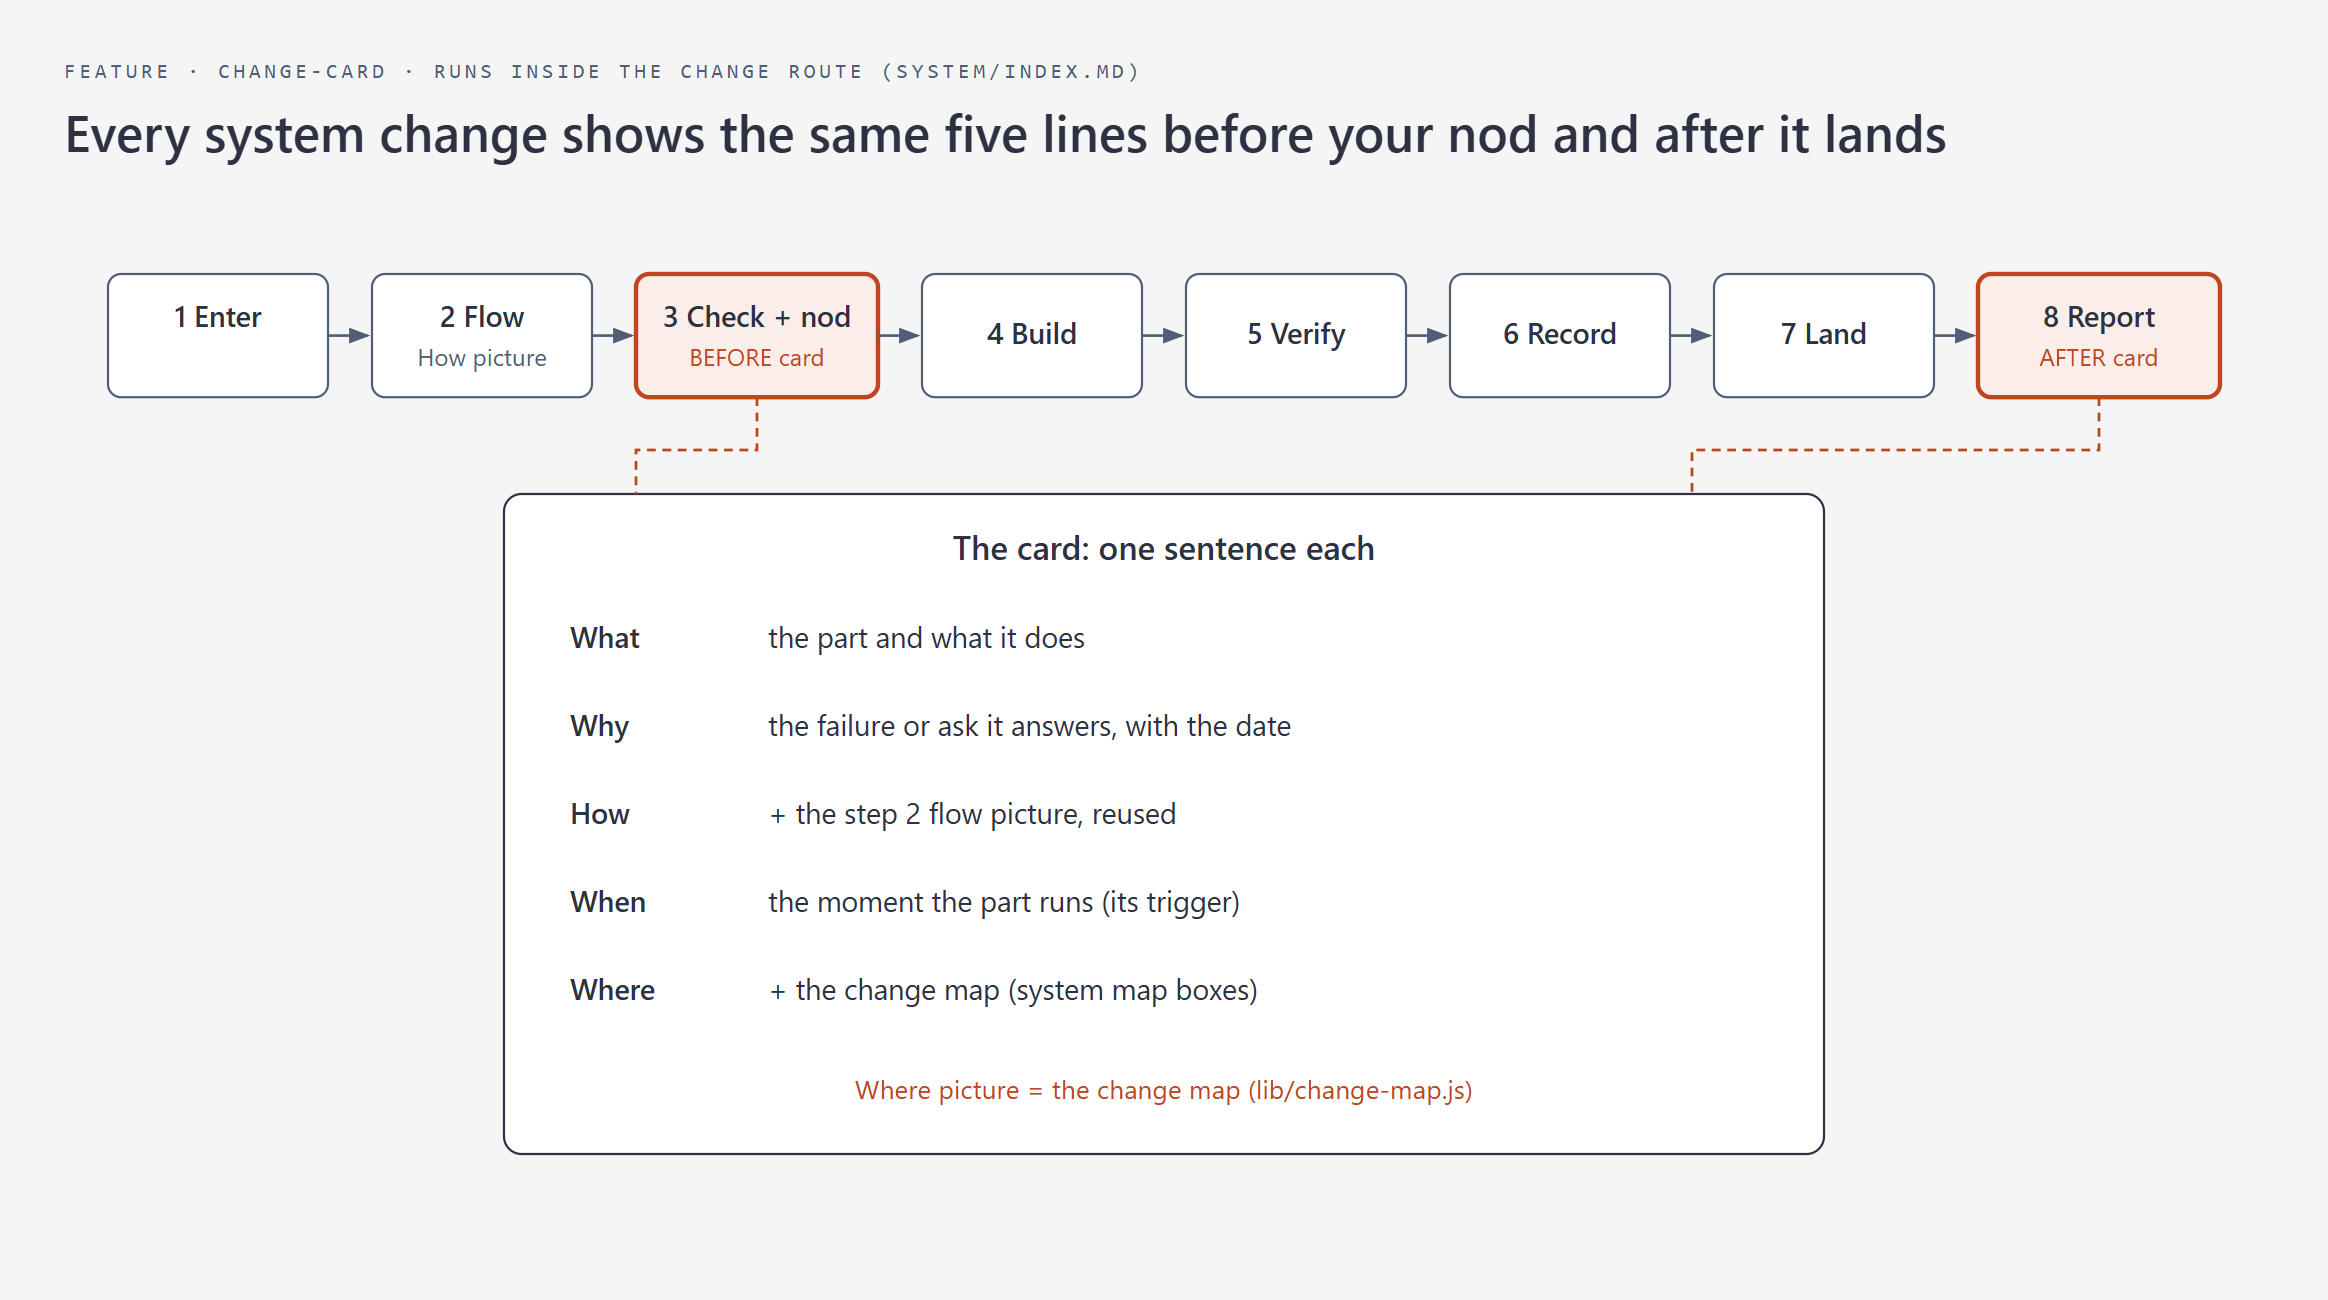
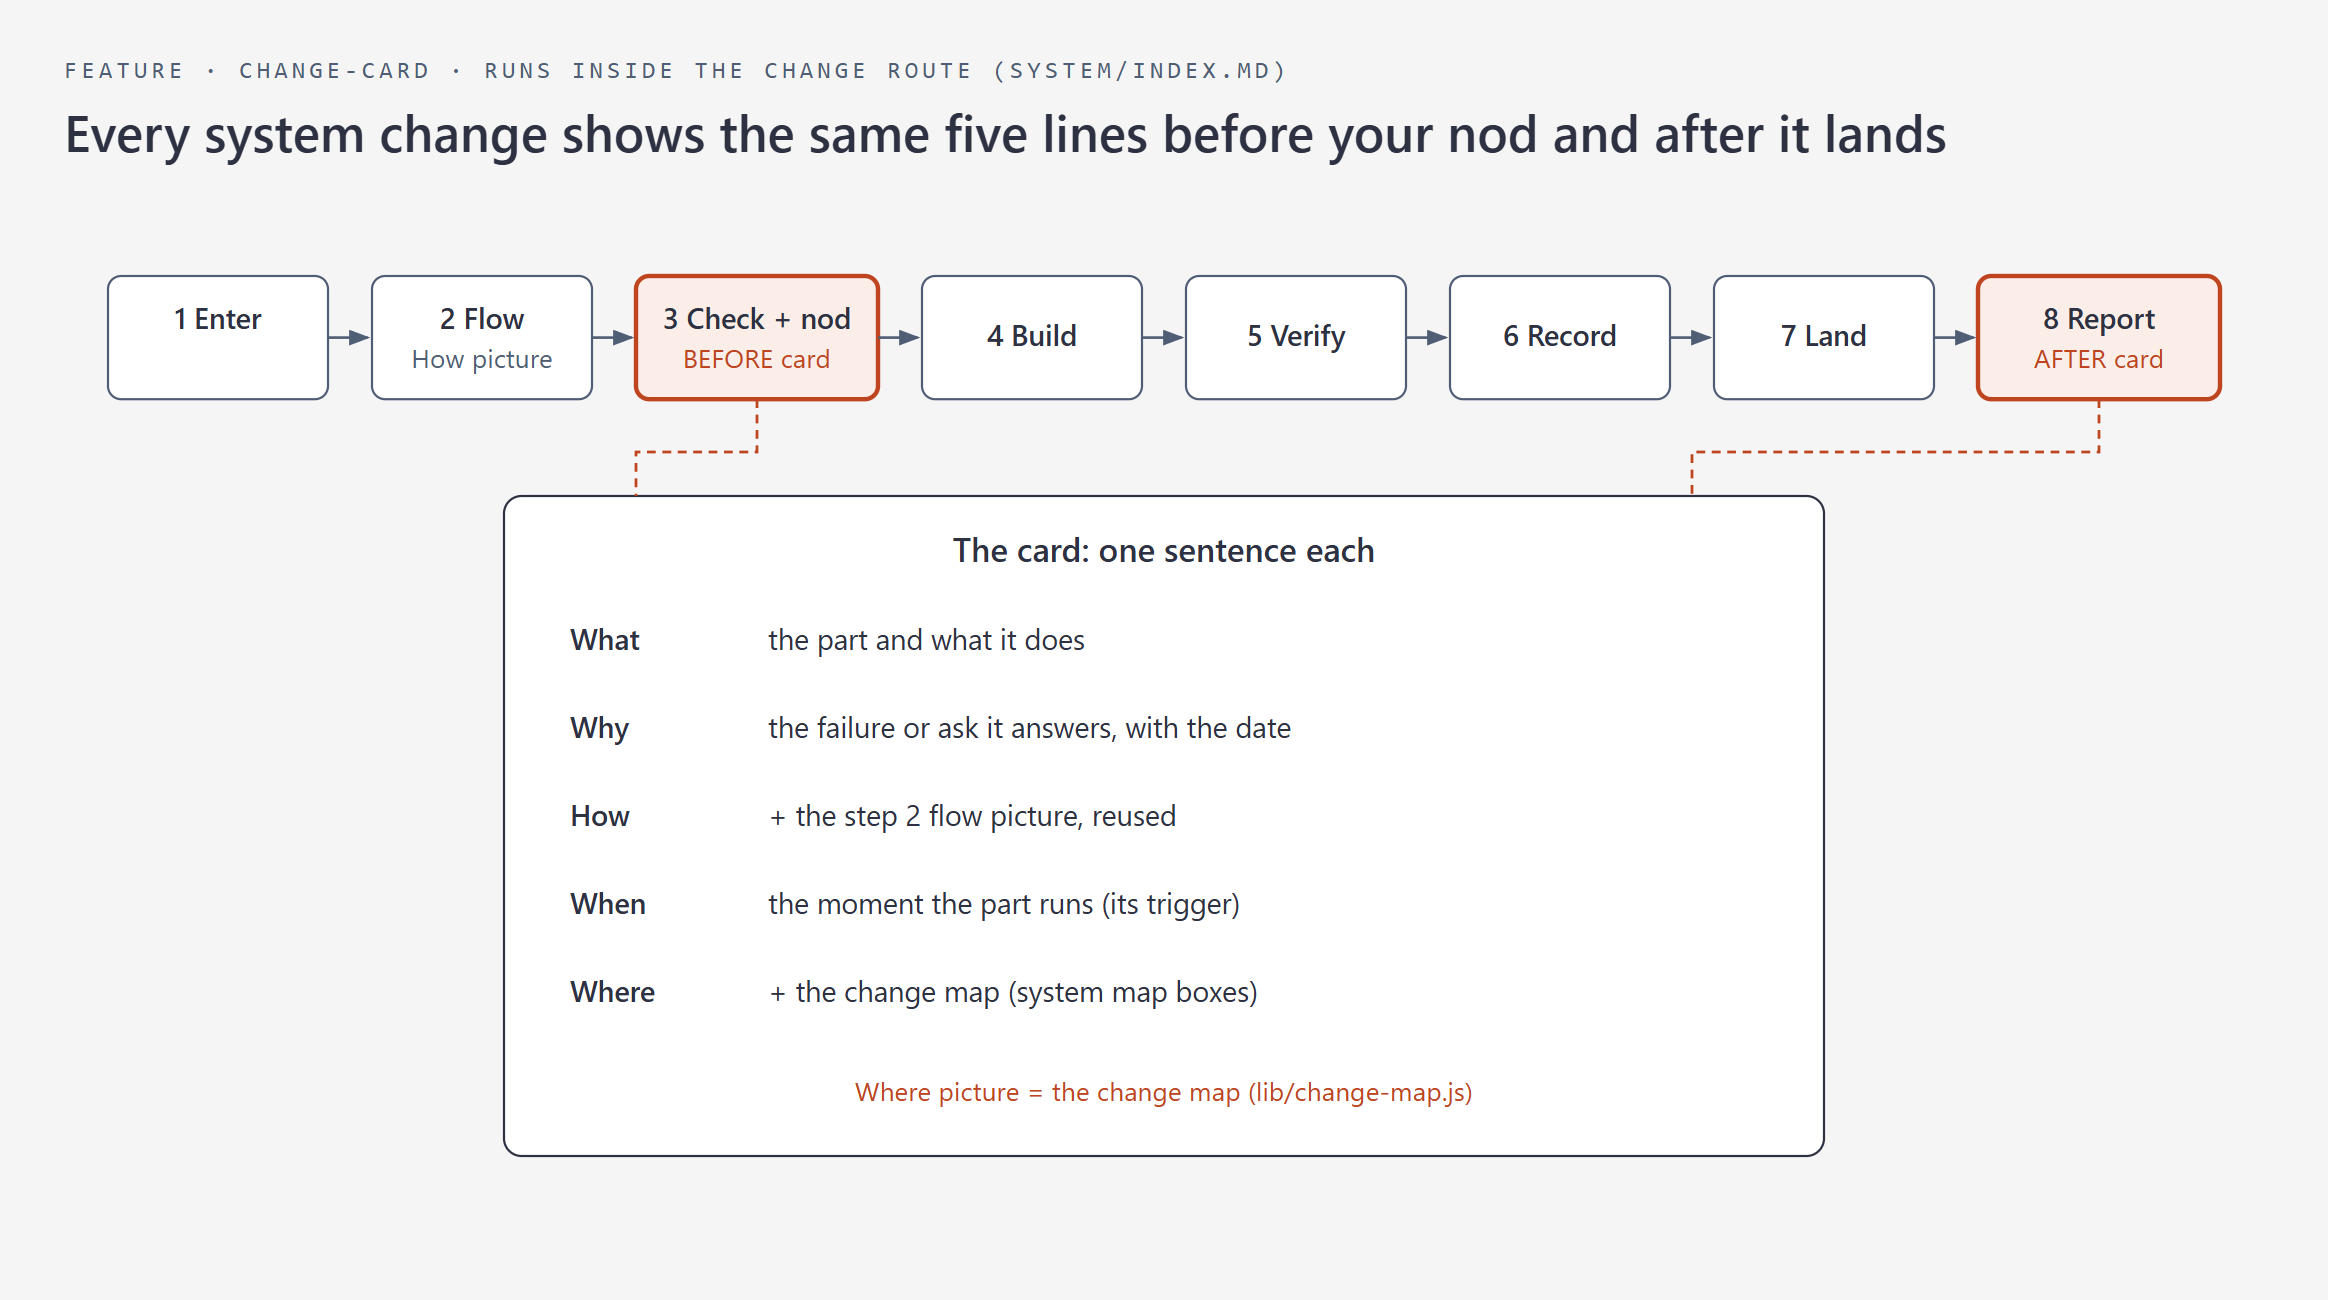
change-card: 5 adversarial fixtures (eval 17/17), diagram labels raised to 12 px

diff --git a/.claude/skills/change-card/diagram.html b/.claude/skills/change-card/diagram.html
@@ -9,7 +9,7 @@
     :root { --color-paper: #f5f5f5; --color-ink: #2d3142; --color-muted: #4f5d75; --color-accent: #bf4520; --font-sans: 'Segoe UI', Arial, sans-serif; --font-mono: Consolas, monospace; }
     body { font-family: var(--font-sans); background: var(--color-paper); color: var(--color-ink); min-height: 100vh; display: flex; align-items: center; justify-content: center; padding: 3rem 2rem; }
     .frame { max-width: 1100px; width: 100%; padding: 28px 32px; box-sizing: content-box; }
-    .eyebrow { font-family: var(--font-mono); font-size: 0.66rem; letter-spacing: 0.18em; text-transform: uppercase; color: var(--color-muted); margin-bottom: 0.5rem; }
+    .eyebrow { font-family: var(--font-mono); font-size: 0.75rem; letter-spacing: 0.18em; text-transform: uppercase; color: var(--color-muted); margin-bottom: 0.5rem; }
     h1 { font-size: 1.6rem; font-weight: 600; line-height: 1.2; margin-bottom: 1.5rem; }
     svg { width: 100%; min-width: 1000px; display: block; }
   </style>
@@ -31,10 +31,10 @@
         <text x="70" y="54" text-anchor="middle" font-weight="600">1 Enter</text>
         <rect x="140" y="30" width="100" height="56" rx="6" fill="#ffffff" stroke="#4f5d75"/>
         <text x="190" y="54" text-anchor="middle" font-weight="600">2 Flow</text>
-        <text x="190" y="72" text-anchor="middle" font-size="11" fill="#4f5d75">How picture</text>
+        <text x="190" y="72" text-anchor="middle" font-size="12" fill="#4f5d75">How picture</text>
         <rect x="260" y="30" width="110" height="56" rx="6" fill="#fbeee8" stroke="#bf4520" stroke-width="2"/>
         <text x="315" y="54" text-anchor="middle" font-weight="600">3 Check + nod</text>
-        <text x="315" y="72" text-anchor="middle" font-size="11" fill="#bf4520">BEFORE card</text>
+        <text x="315" y="72" text-anchor="middle" font-size="12" fill="#bf4520">BEFORE card</text>
         <rect x="390" y="30" width="100" height="56" rx="6" fill="#ffffff" stroke="#4f5d75"/>
         <text x="440" y="62" text-anchor="middle" font-weight="600">4 Build</text>
         <rect x="510" y="30" width="100" height="56" rx="6" fill="#ffffff" stroke="#4f5d75"/>
@@ -45,7 +45,7 @@
         <text x="800" y="62" text-anchor="middle" font-weight="600">7 Land</text>
         <rect x="870" y="30" width="110" height="56" rx="6" fill="#fbeee8" stroke="#bf4520" stroke-width="2"/>
         <text x="925" y="54" text-anchor="middle" font-weight="600">8 Report</text>
-        <text x="925" y="72" text-anchor="middle" font-size="11" fill="#bf4520">AFTER card</text>
+        <text x="925" y="72" text-anchor="middle" font-size="12" fill="#bf4520">AFTER card</text>
         <g stroke="#4f5d75" stroke-width="1.2" marker-end="url(#arrow)">
           <line x1="120" y1="58" x2="138" y2="58"/><line x1="240" y1="58" x2="258" y2="58"/><line x1="370" y1="58" x2="388" y2="58"/>
           <line x1="490" y1="58" x2="508" y2="58"/><line x1="610" y1="58" x2="628" y2="58"/><line x1="730" y1="58" x2="748" y2="58"/><line x1="850" y1="58" x2="868" y2="58"/>

diff --git a/domain/change-card/diagram.html b/domain/change-card/diagram.html
@@ -9,7 +9,7 @@
     :root { --color-paper: #f5f5f5; --color-ink: #2d3142; --color-muted: #4f5d75; --color-accent: #bf4520; --font-sans: 'Segoe UI', Arial, sans-serif; --font-mono: Consolas, monospace; }
     body { font-family: var(--font-sans); background: var(--color-paper); color: var(--color-ink); min-height: 100vh; display: flex; align-items: center; justify-content: center; padding: 3rem 2rem; }
     .frame { max-width: 1100px; width: 100%; padding: 28px 32px; box-sizing: content-box; }
-    .eyebrow { font-family: var(--font-mono); font-size: 0.66rem; letter-spacing: 0.18em; text-transform: uppercase; color: var(--color-muted); margin-bottom: 0.5rem; }
+    .eyebrow { font-family: var(--font-mono); font-size: 0.75rem; letter-spacing: 0.18em; text-transform: uppercase; color: var(--color-muted); margin-bottom: 0.5rem; }
     h1 { font-size: 1.6rem; font-weight: 600; line-height: 1.2; margin-bottom: 1.5rem; }
     svg { width: 100%; min-width: 1000px; display: block; }
   </style>
@@ -31,10 +31,10 @@
         <text x="70" y="54" text-anchor="middle" font-weight="600">1 Enter</text>
         <rect x="140" y="30" width="100" height="56" rx="6" fill="#ffffff" stroke="#4f5d75"/>
         <text x="190" y="54" text-anchor="middle" font-weight="600">2 Flow</text>
-        <text x="190" y="72" text-anchor="middle" font-size="11" fill="#4f5d75">How picture</text>
+        <text x="190" y="72" text-anchor="middle" font-size="12" fill="#4f5d75">How picture</text>
         <rect x="260" y="30" width="110" height="56" rx="6" fill="#fbeee8" stroke="#bf4520" stroke-width="2"/>
         <text x="315" y="54" text-anchor="middle" font-weight="600">3 Check + nod</text>
-        <text x="315" y="72" text-anchor="middle" font-size="11" fill="#bf4520">BEFORE card</text>
+        <text x="315" y="72" text-anchor="middle" font-size="12" fill="#bf4520">BEFORE card</text>
         <rect x="390" y="30" width="100" height="56" rx="6" fill="#ffffff" stroke="#4f5d75"/>
         <text x="440" y="62" text-anchor="middle" font-weight="600">4 Build</text>
         <rect x="510" y="30" width="100" height="56" rx="6" fill="#ffffff" stroke="#4f5d75"/>
@@ -45,7 +45,7 @@
         <text x="800" y="62" text-anchor="middle" font-weight="600">7 Land</text>
         <rect x="870" y="30" width="110" height="56" rx="6" fill="#fbeee8" stroke="#bf4520" stroke-width="2"/>
         <text x="925" y="54" text-anchor="middle" font-weight="600">8 Report</text>
-        <text x="925" y="72" text-anchor="middle" font-size="11" fill="#bf4520">AFTER card</text>
+        <text x="925" y="72" text-anchor="middle" font-size="12" fill="#bf4520">AFTER card</text>
         <g stroke="#4f5d75" stroke-width="1.2" marker-end="url(#arrow)">
           <line x1="120" y1="58" x2="138" y2="58"/><line x1="240" y1="58" x2="258" y2="58"/><line x1="370" y1="58" x2="388" y2="58"/>
           <line x1="490" y1="58" x2="508" y2="58"/><line x1="610" y1="58" x2="628" y2="58"/><line x1="730" y1="58" x2="748" y2="58"/><line x1="850" y1="58" x2="868" y2="58"/>

diff --git a/domain/change-card/eval.js b/domain/change-card/eval.js
@@ -75,5 +75,20 @@ ok('E11 session file: the LAST before block is checked', r.pass, r.reasons.join(
 r = check(SESSION, 'after');
 ok('E12 session file with no after block fails on stage', !r.pass);
 
+r = check(GOOD.replace(/\n/g, '\r\n'), 'before');
+ok('E13 Windows line ends pass', r.pass, r.reasons.join(' · '));
+
+r = check('', null);
+ok('E14 empty input fails on every line', !r.pass && r.reasons.length >= 5);
+
+r = check(GOOD.replace('- What:', '- **What**:').replace('- Why:', '**Why:**'), 'before');
+ok('E15 bold labels pass', r.pass, r.reasons.join(' · '));
+
+r = check(GOOD.replace('one sentence.', 'one sentence in 0.1 s.'), 'before');
+ok('E16 a decimal number is not a sentence end', r.pass, r.reasons.join(' · '));
+
+r = check(GOOD.replace('Where picture = the change map (lib/change-map.js).', 'The change map is the Where picture.'), 'before');
+ok('E17 a reworded closing line fails (exact name line required)', !r.pass);
+
 console.log(`change-card eval: ${pass}/${pass + fail}`);
 process.exit(fail ? 1 : 0);

diff --git a/domain/change-card/README.md b/domain/change-card/README.md
@@ -23,7 +23,7 @@ A review card for any system change, shown twice: at change route step 3 (BEFORE
 |---|---|
 | `.claude/skills/change-card/SKILL.md` | the card rules and the two moments |
 | `domain/change-card/change-card.js` | checker: `node domain/change-card/change-card.js <file> [--stage before\|after]` → `CHANGE-CARD: PASS` or `FAIL <reasons>`; on a session file it checks the last block of that stage |
-| `domain/change-card/eval.js` | 12 fixtures: good card, table form, session file, each failure kind |
+| `domain/change-card/eval.js` | 17 fixtures: good card, table form, session file, Windows line ends, bold labels, decimals, each failure kind |
 | `diagram.html` / `.png` | the change route with the two card moments marked |
 | `log.jsonl` | one row per check |
 
